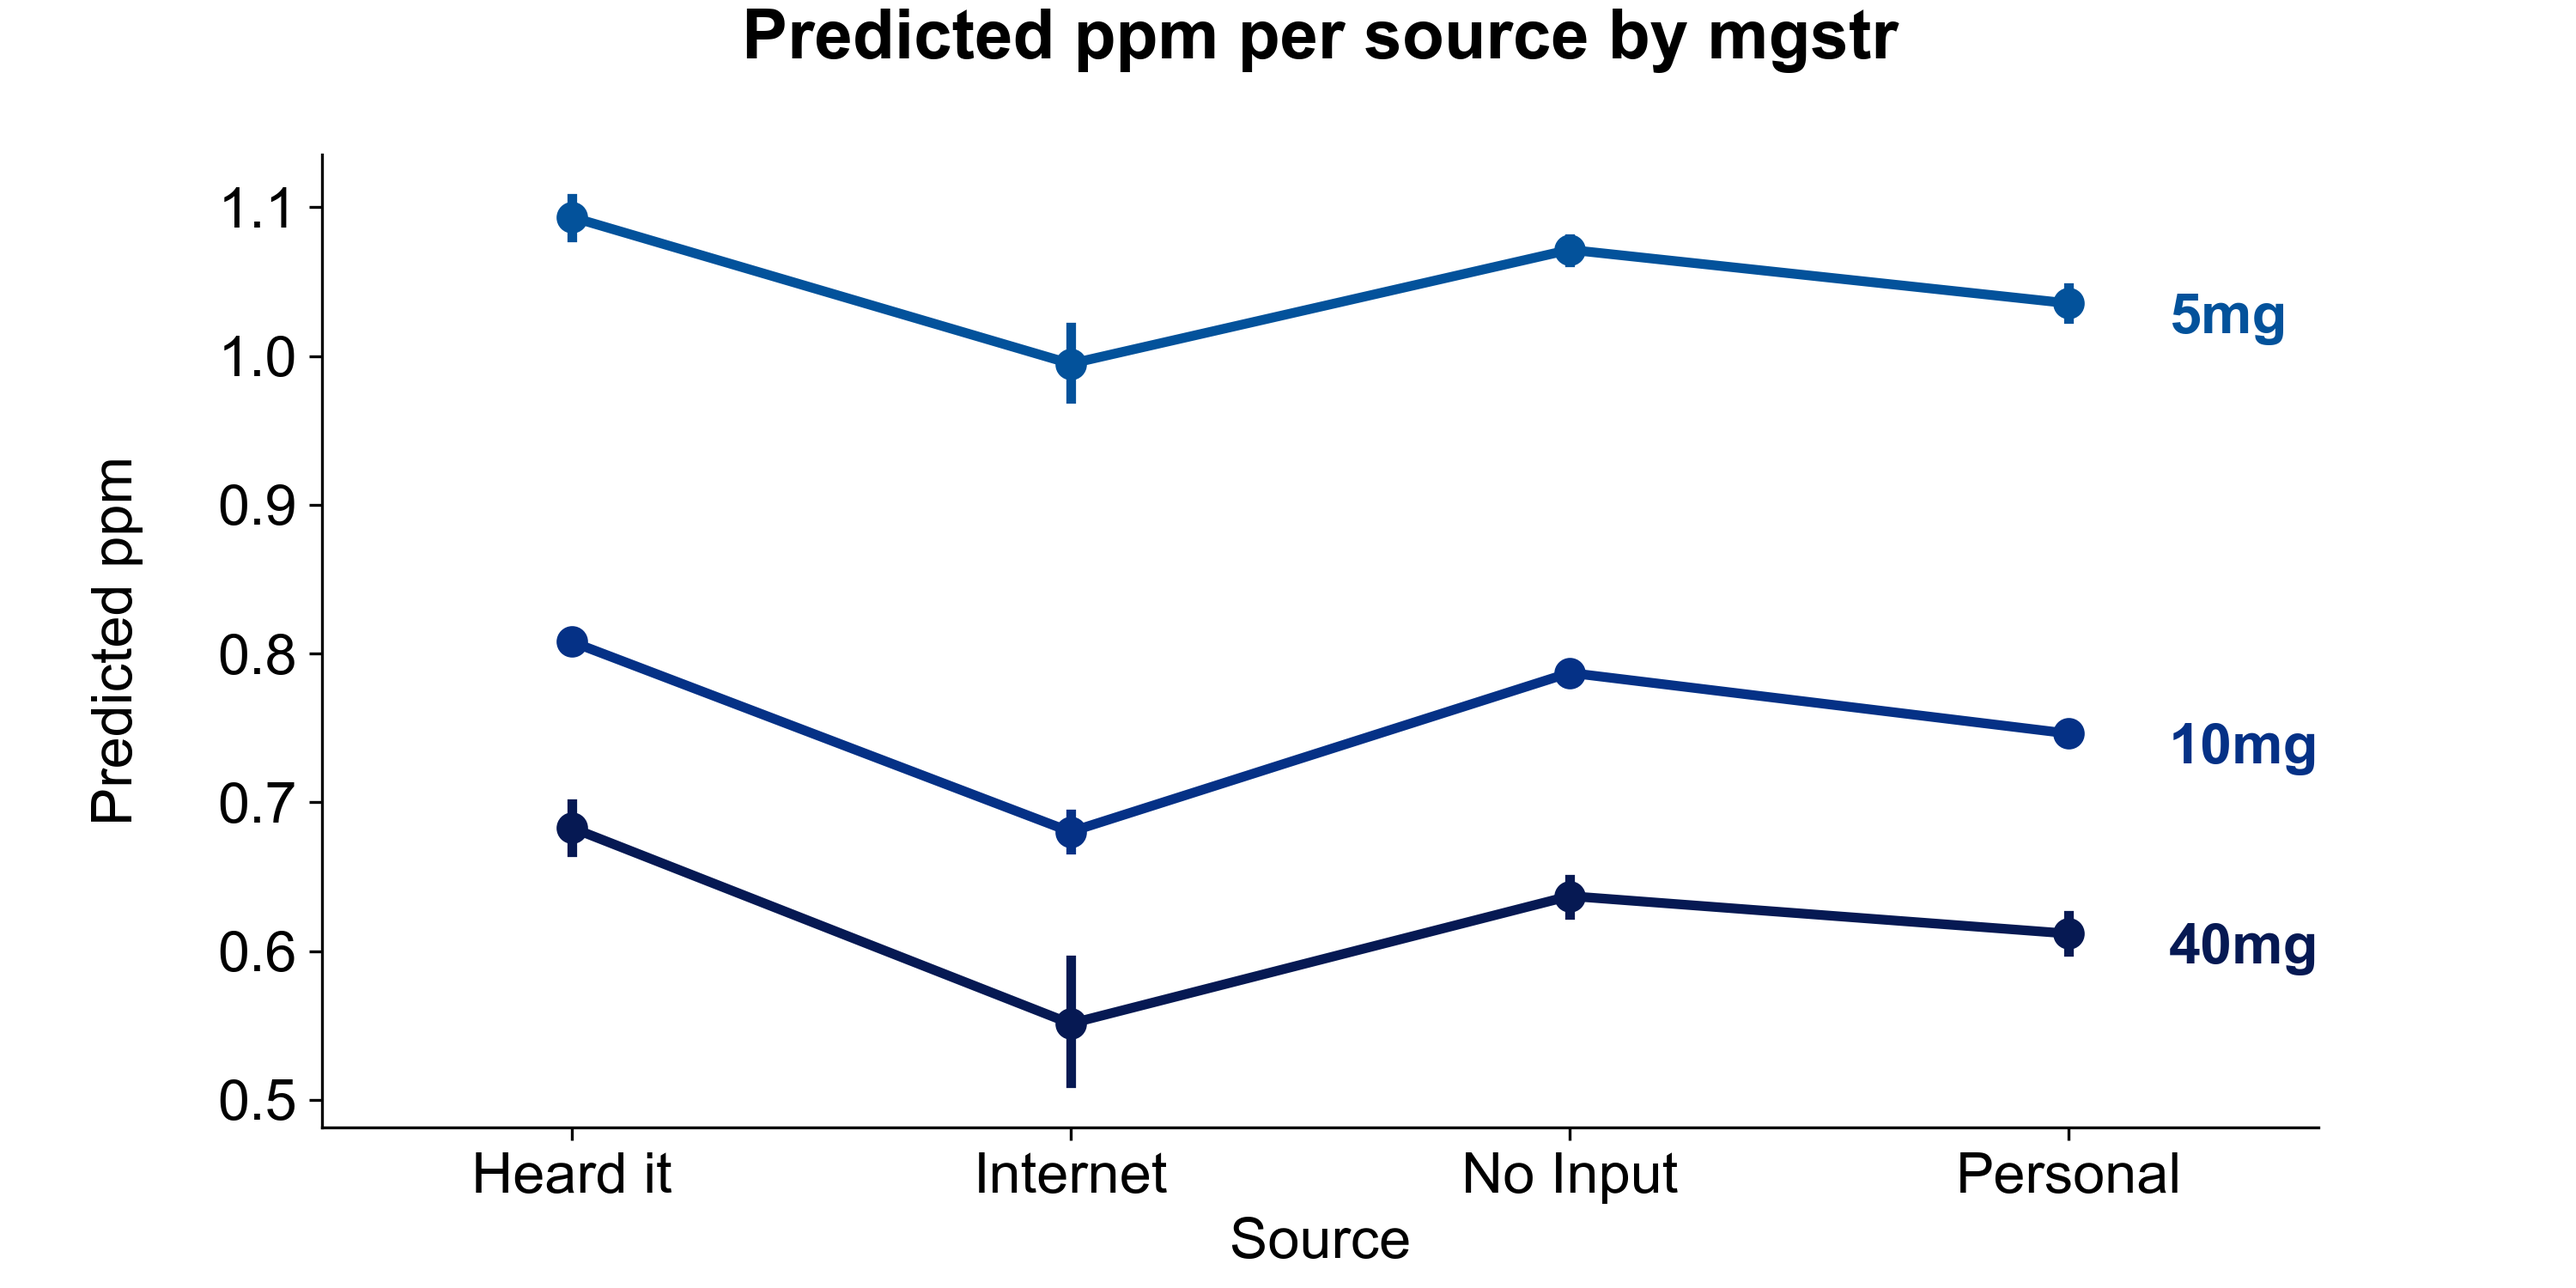
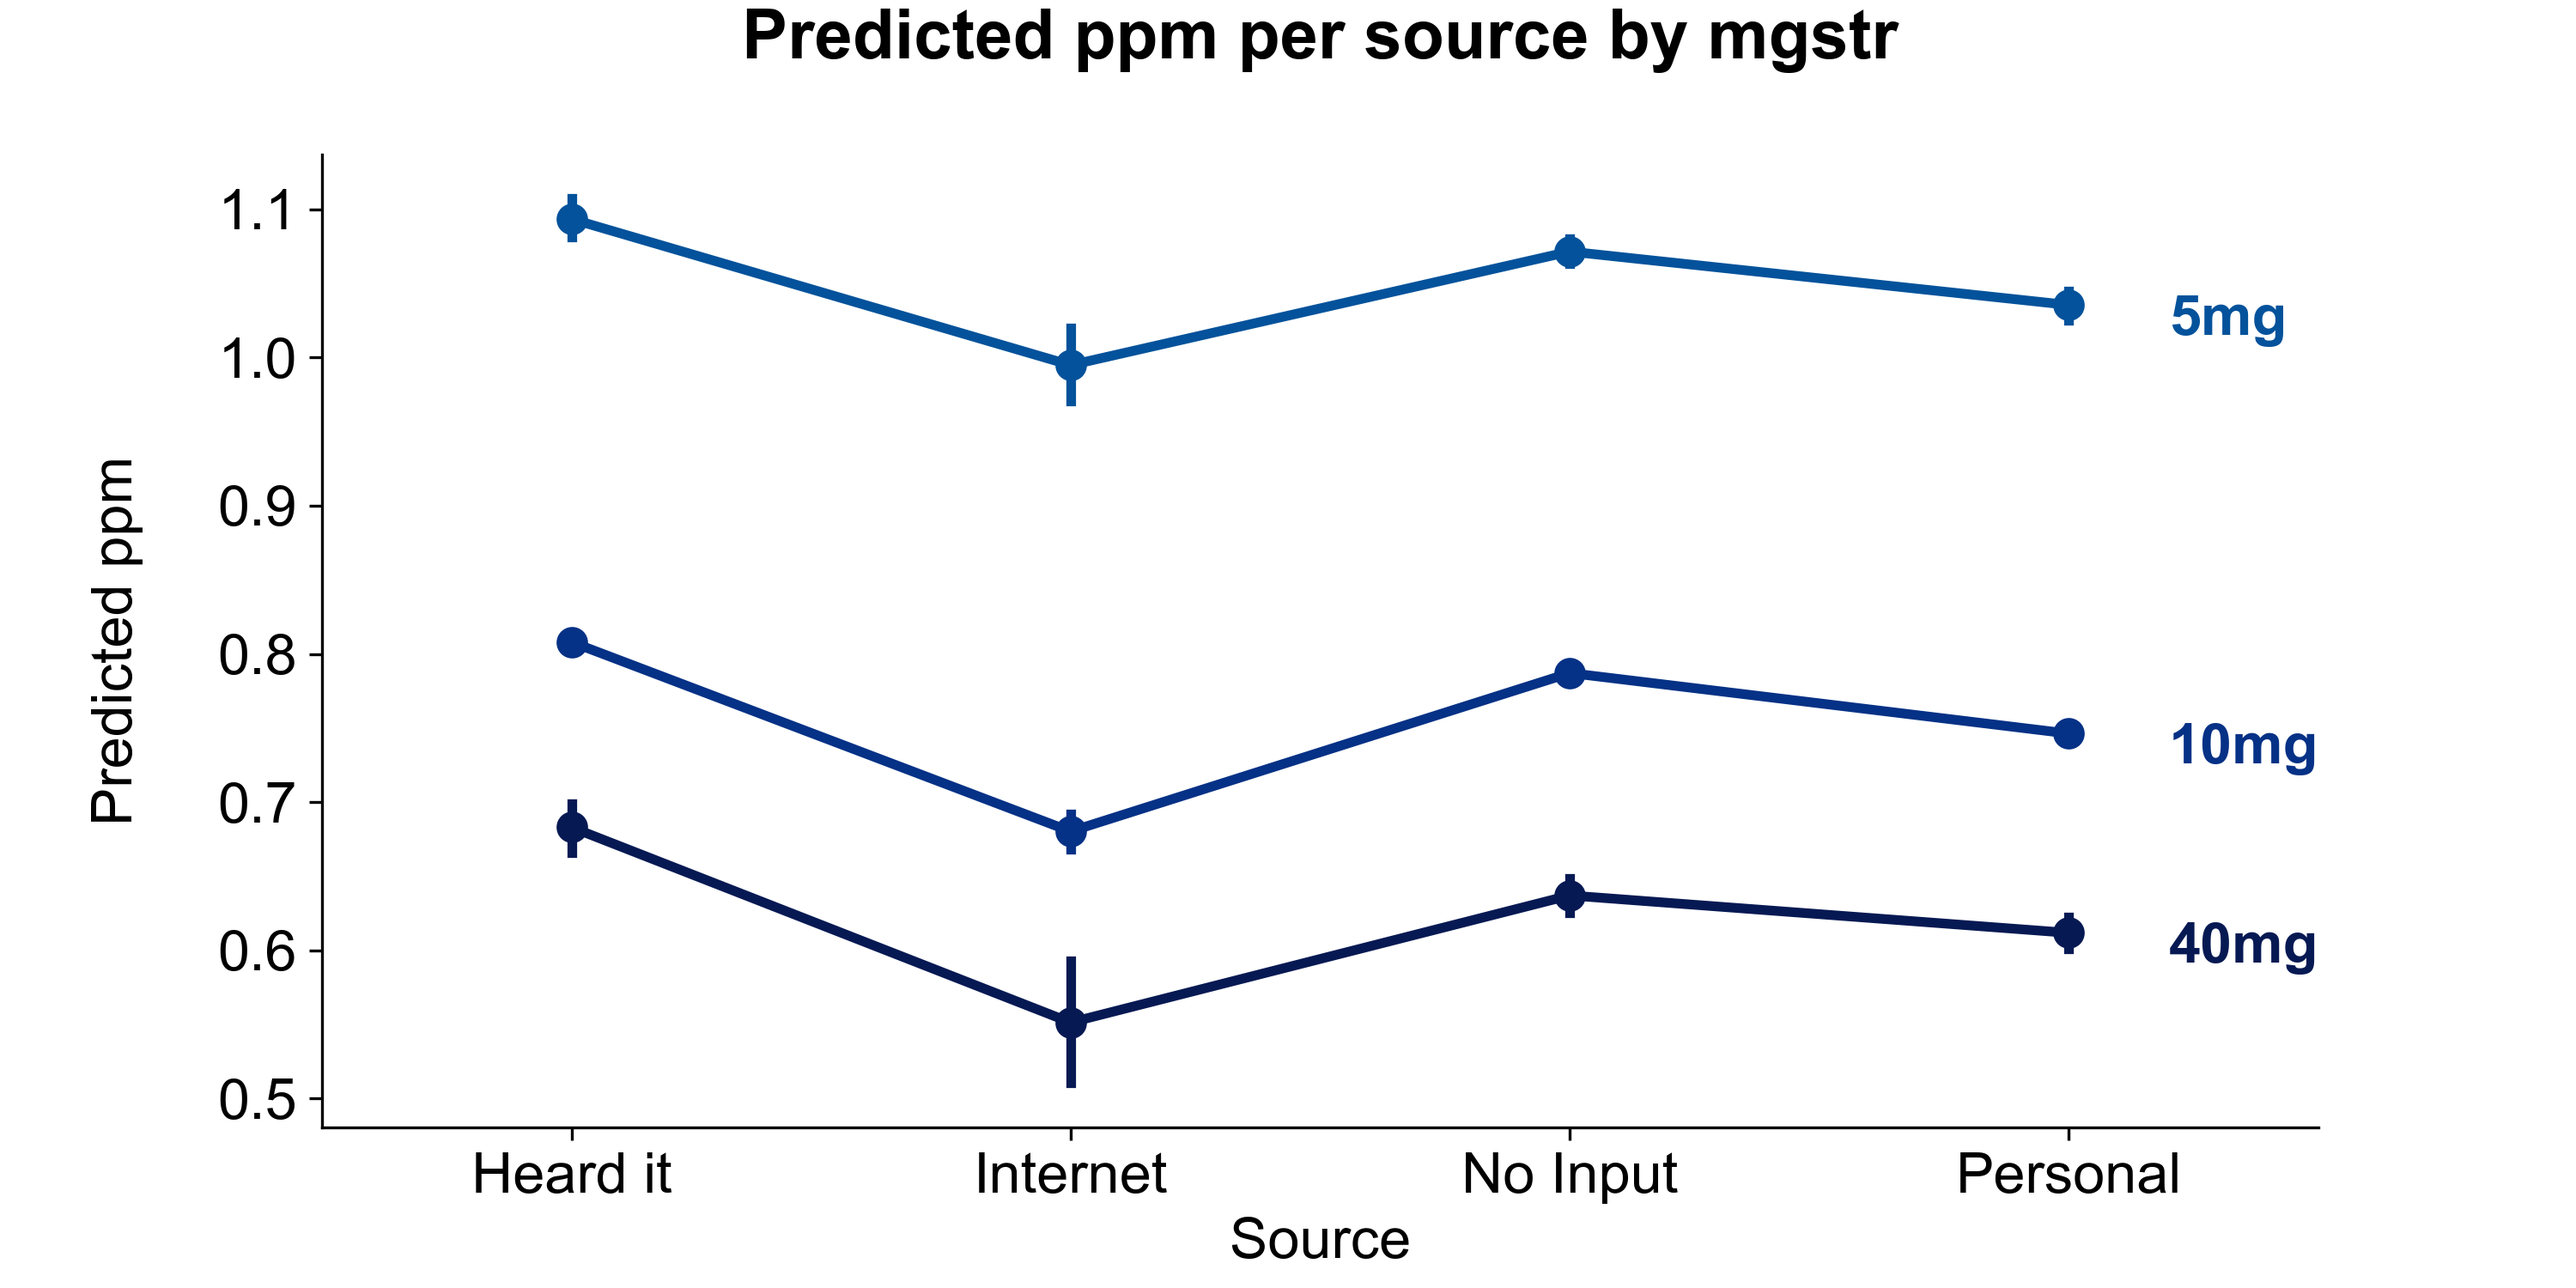
fixed caps

diff --git a/Presentation/part1_plots.py b/Presentation/part1_plots.py
@@ -117,13 +117,12 @@ ax.errorbar(
     df_dotplot_state["pointestimate"],
     df_dotplot_state["state"],
     xerr=1.96 * df_dotplot_state["err"],
-    capsize=2.5,
     zorder=0,
     color=DARKBLUE,
-    # ecolor=[
-    #     DARKBLUE if label.get_text() in highlight_states else "0.7"
-    #     for label in ax.get_yticklabels()
-    # ],
+    ecolor=[
+        DARKBLUE if label.get_text() in highlight_states else "0.7"
+        for label in ax.get_yticklabels()
+    ],
 )
 sns.despine()
 ax.axvline(0, zorder=-1, color="0.6", linestyle="--")
